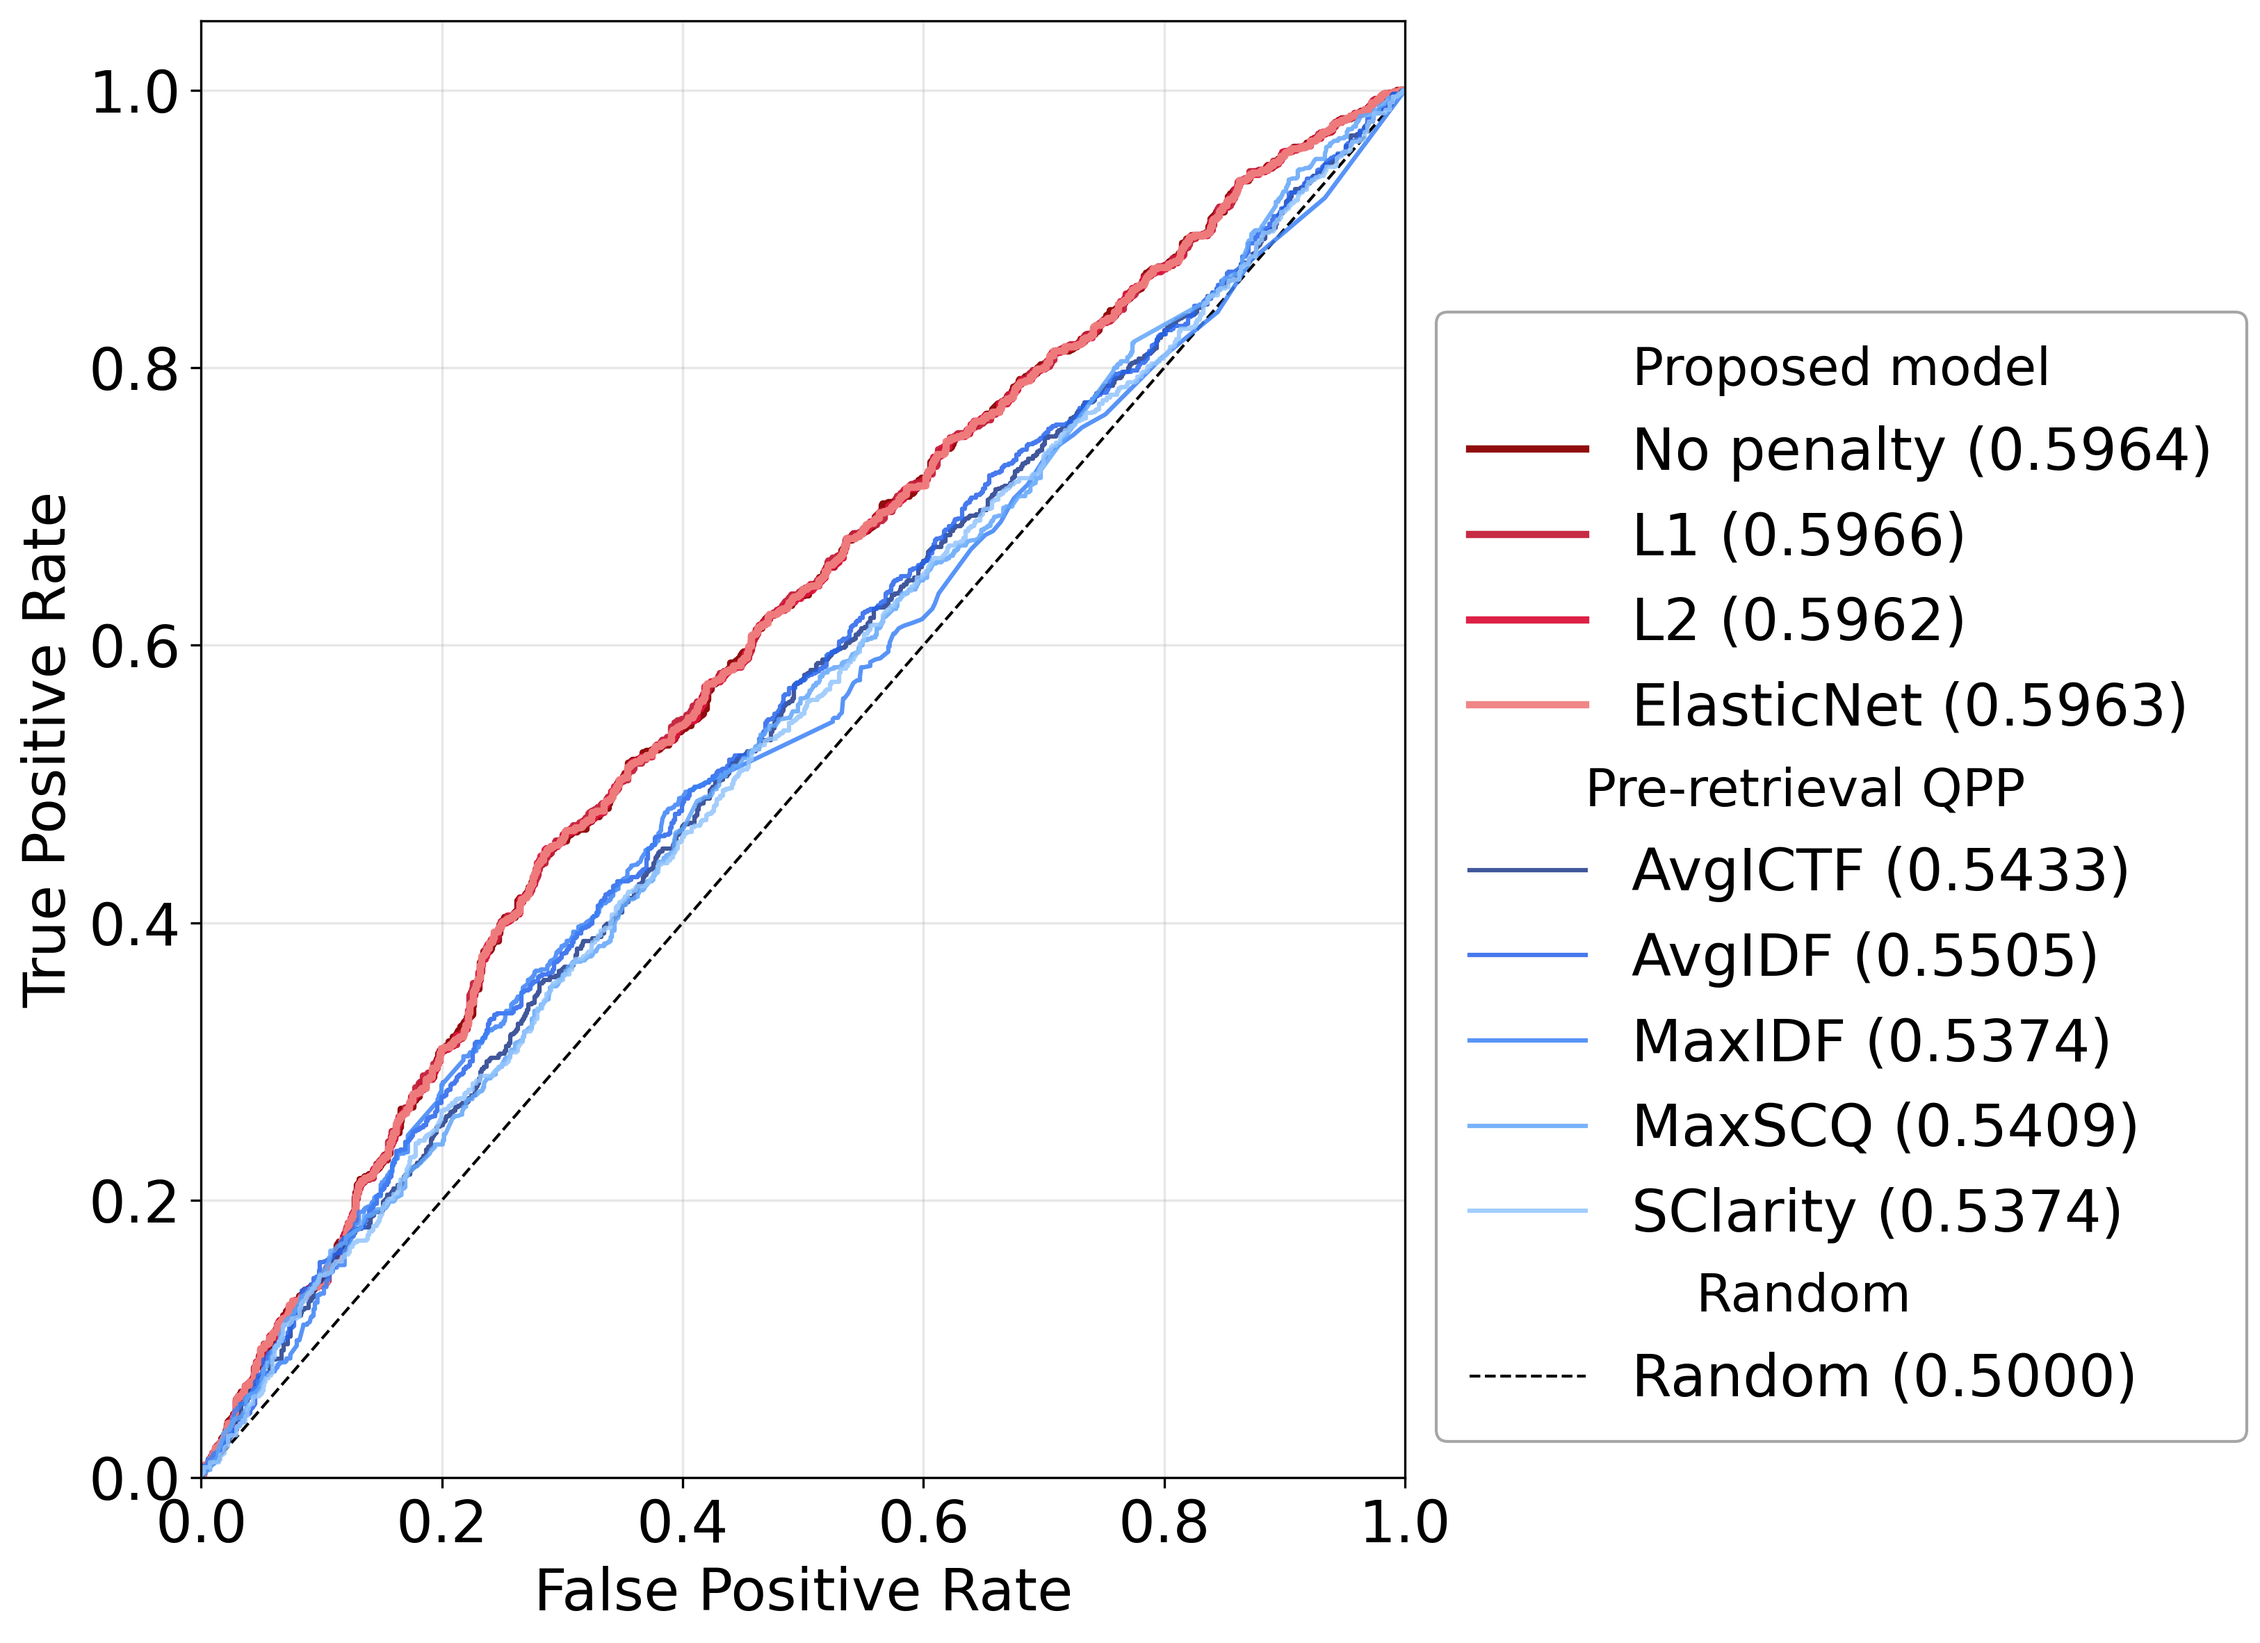
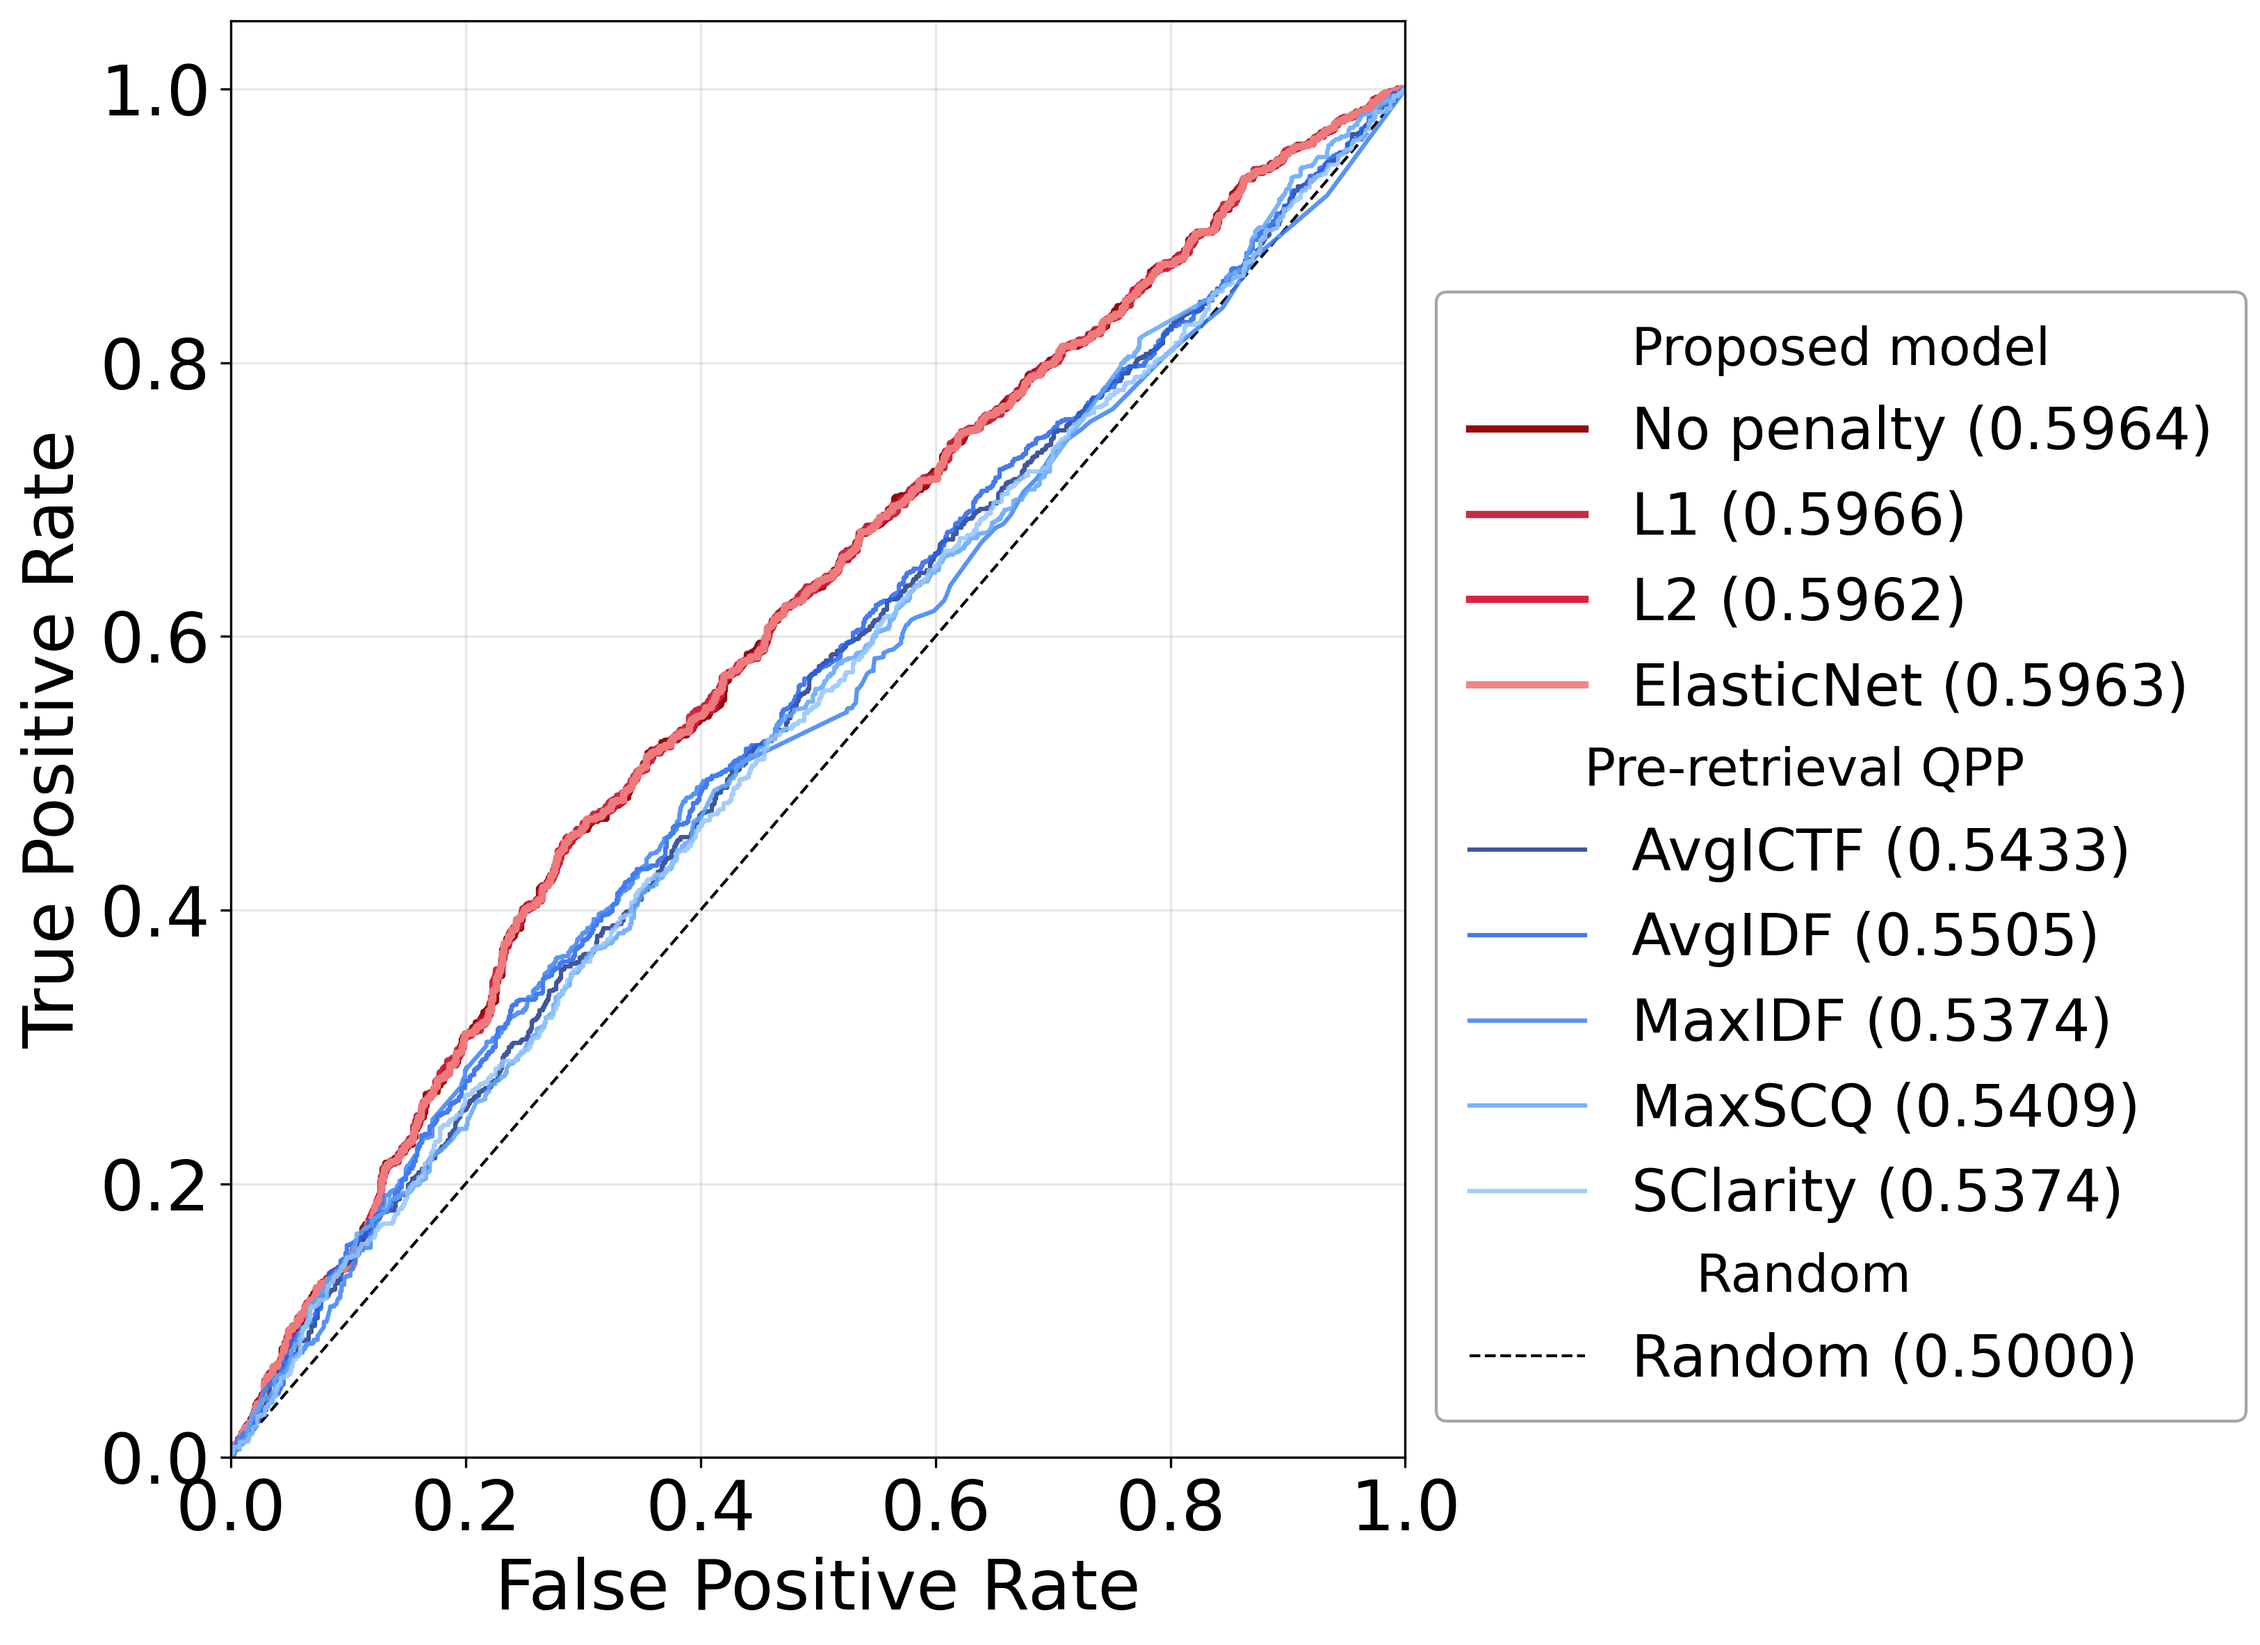
フォントサイズを変更

diff --git a/LogReg/LASSO/redraw_roc_curves.py b/LogReg/LASSO/redraw_roc_curves.py
@@ -82,14 +82,14 @@ def load_and_plot(scenario_name: str, scenario_dir: Path, output_dir: Path) -> N
     )
     print(f"  [OK] {scenario_name}: 保存先 {output_path}")
 
-    # 別バージョン: 軸ラベル20pt・凡例をグラフ外・ラベルは (xxx) 形式・グラフは小さめ
+    # 別バージョン: 軸ラベル24pt・凡例をグラフ外・ラベルは (xxx) 形式・グラフは小さめ
     outside_path = output_dir / f"{scenario_name}_outside.png"
     plot_roc_curves_regularization_and_single_metrics(
         y_test=y_test,
         regularization_probas=regularization_probas,
         single_metrics_df=single_metrics_df,
         output_path=outside_path,
-        axis_fontsize=20,
+        axis_fontsize=24,
         legend_fontsize=20,
         legend_fraction=0.4,
         square=False,
